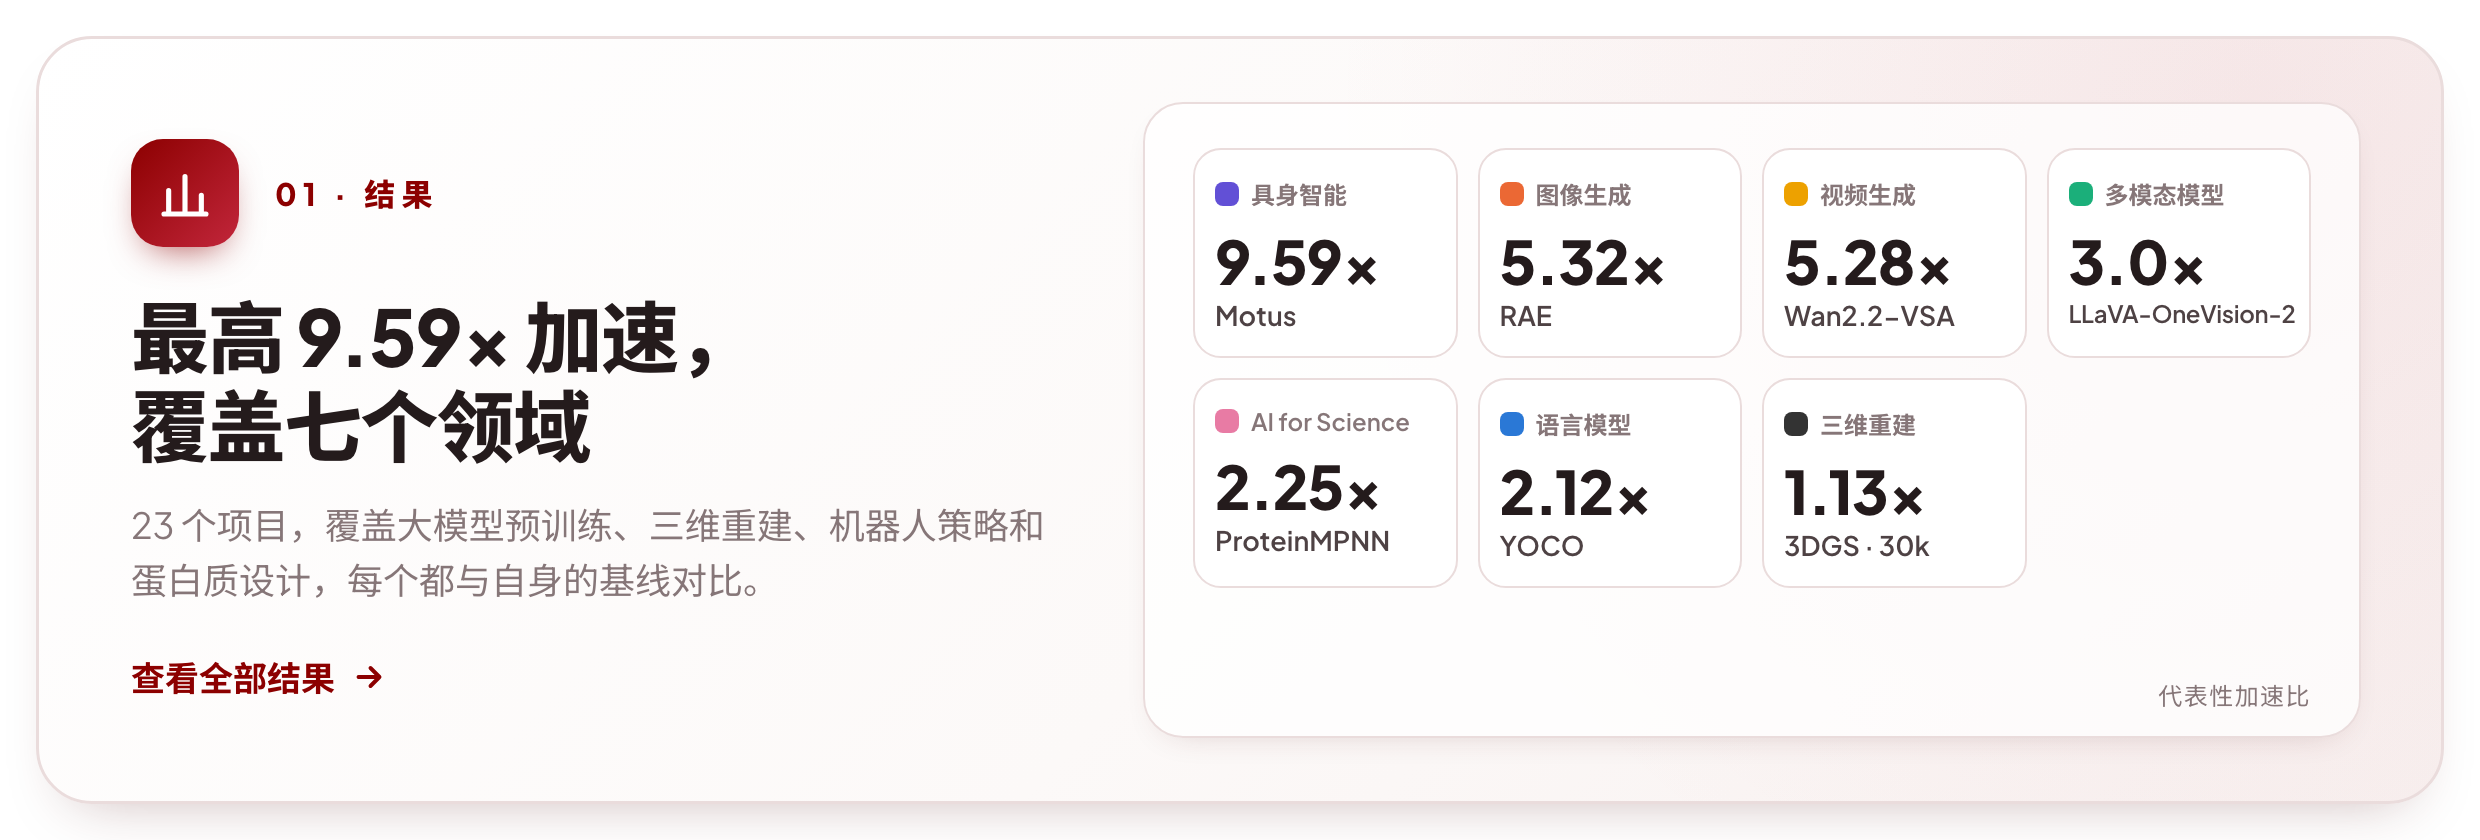
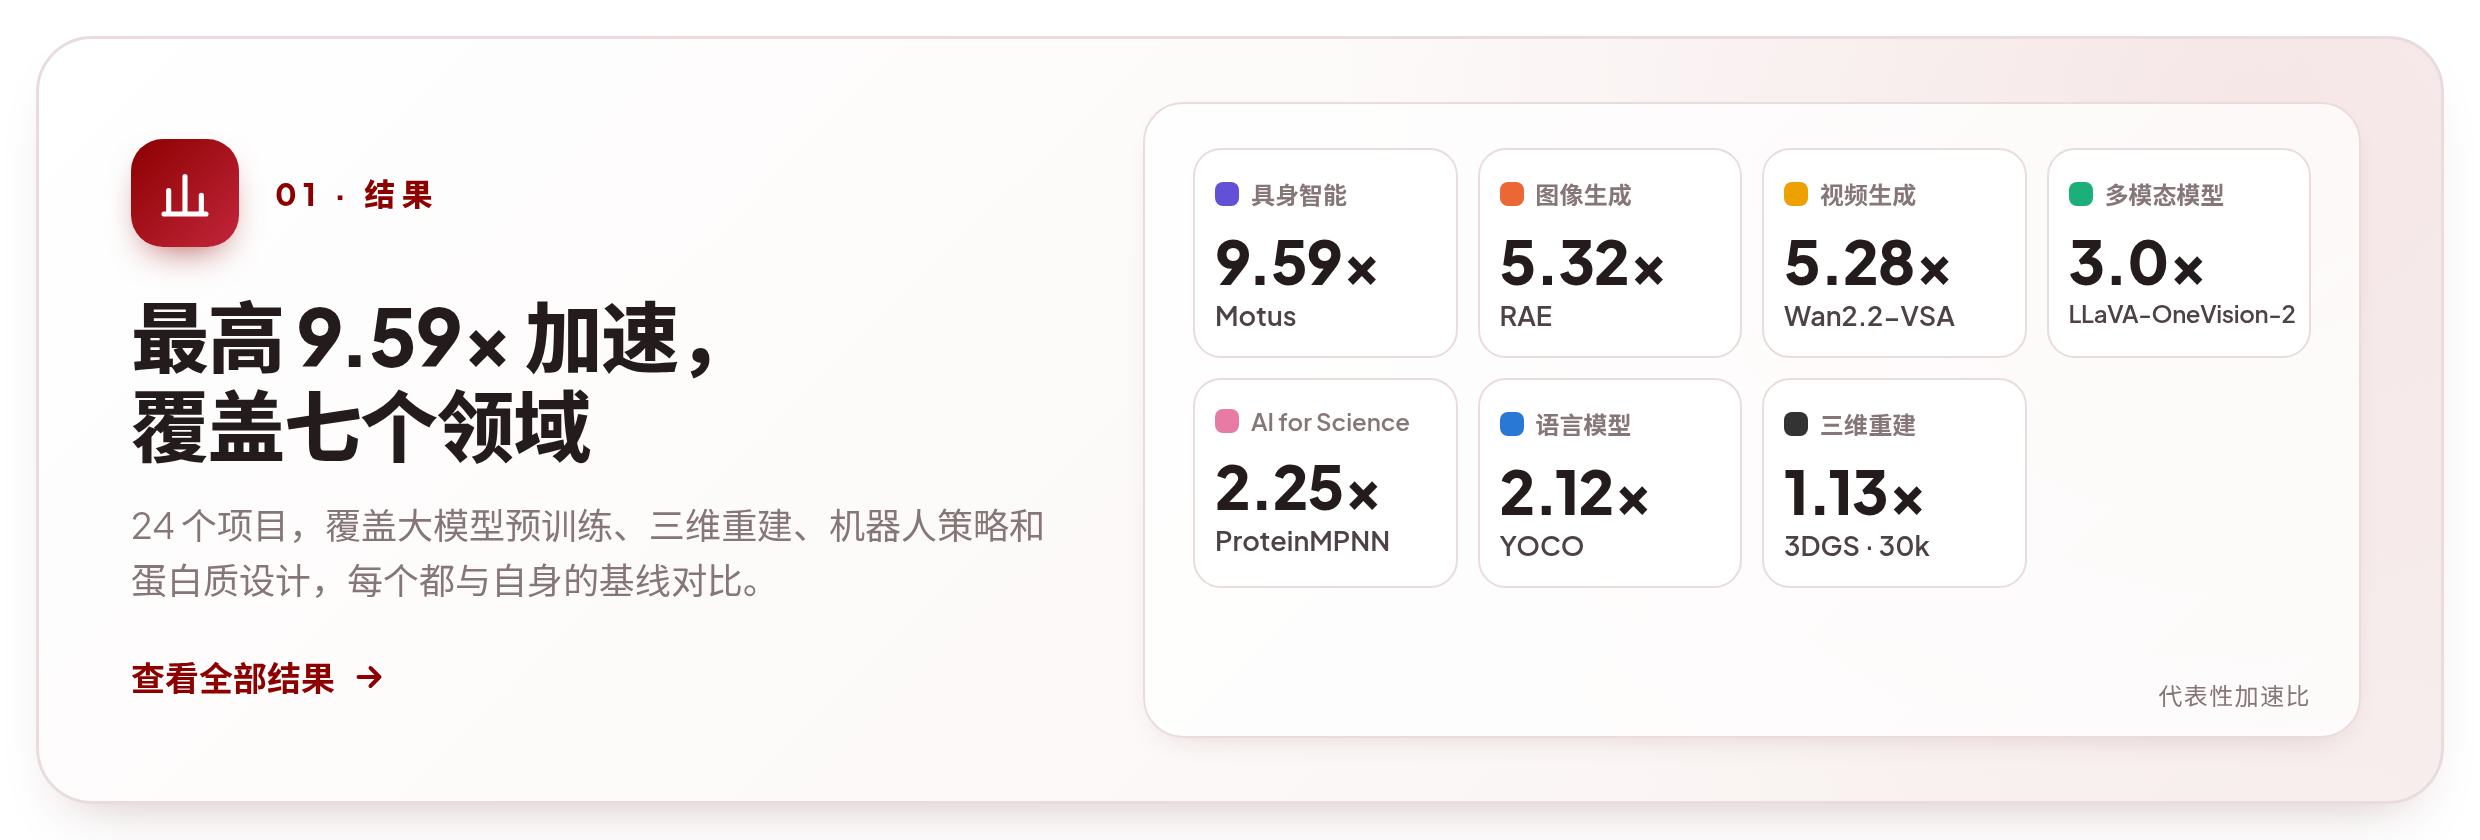
docs: add Faster-SuperMimic to results and leaderboard
Official SuperMimic (HybridRobotics/supermimic + mjlab_research) training, 1.38x
(0.0852 -> 0.0617 s/iteration), statistical judge PASS, 20k-iteration end-to-end training reproduced.

diff --git a/docs/assets/readme/render.py b/docs/assets/readme/render.py
@@ -58,7 +58,7 @@ T = {
                     ("bench-blog", "book", "Read the blog post", "light")],
         "cards": [
             ("results", "chart", "01 · RESULTS", "Up to 9.59× faster,<br>across seven domains",
-             "23 projects, from LLM pretraining to 3D reconstruction, robot policies and protein design, each measured against its own baseline.",
+             "24 projects, from LLM pretraining to 3D reconstruction, robot policies and protein design, each measured against its own baseline.",
              "See all results"),
             ("prompt", "terminal", "02 · ONE PROMPT", "Paste one prompt,<br>get a verified speedup",
              "Open Codex or Claude Code on a GPU host. The agent finds the code, asks only what is yours to decide, and does the rest.",
@@ -134,7 +134,7 @@ T = {
                     ("bench-blog", "book", "阅读博客", "light")],
         "cards": [
             ("results", "chart", "01 · 结果", "最高 9.59× 加速，<br>覆盖七个领域",
-             "23 个项目，覆盖大模型预训练、三维重建、机器人策略和蛋白质设计，每个都与自身的基线对比。",
+             "24 个项目，覆盖大模型预训练、三维重建、机器人策略和蛋白质设计，每个都与自身的基线对比。",
              "查看全部结果"),
             ("prompt", "terminal", "02 · 一段提示词", "粘贴一段话，<br>拿到验证过的加速",
              "在 GPU 主机上打开 Codex 或 Claude Code。agent 自己找到代码，只问需要你决定的事，其余全部自己完成。",

diff --git a/docs/figures/make_results_overview.py b/docs/figures/make_results_overview.py
@@ -44,13 +44,14 @@ PROJECTS = [
     ("LLM2Vec", "llm", 1.6009, "1.60×", False, "stat"),
     ("JiT", "img", 1.56, "1.56×", False, "stat"),
     ("Protenix", "sci", 1.5524, "1.55×", False, "manual"),
+    ("SuperMimic", "emb", 1.3821, "1.38×", False, "stat"),
     ("FermiNet", "sci", 1.252, "1.25×", False, "bitwise"),
     ("NanoChat", "llm", 1.20, "1.20×", False, "stat"),
     ("3DGS", "3d", 1.1314, "1.13×", False, "task"),
 ]
 
 # Projects contributed by the community; the leaderboard marks them with a people icon.
-COMMUNITY = {"NanoChat", "LLM2Vec", "MiniMax-H3", "Wan2.2-VSA", "SANA-WM", "OpenWAM", "LLaVA-OneVision-2", "ProteinMPNN", "Protenix", "FermiNet", "PIDG (module)", "3DGS"}
+COMMUNITY = {"NanoChat", "LLM2Vec", "MiniMax-H3", "Wan2.2-VSA", "SANA-WM", "OpenWAM", "LLaVA-OneVision-2", "ProteinMPNN", "Protenix", "FermiNet", "PIDG (module)", "3DGS", "SuperMimic"}
 
 # (name, domain, baseline, optimized, unit-formatted labels, speedup label, estimate?, en/zh scope, en/zh quality)
 SHOWCASE = [

diff --git a/README.md b/README.md
@@ -55,7 +55,7 @@
 
 ## Highlights
 
-<a href="#results"><img src="docs/assets/readme/card-results-en.png" alt="Up to 9.59× faster across seven research domains: 23 projects, each measured against its own baseline." width="100%"></a>
+<a href="#results"><img src="docs/assets/readme/card-results-en.png" alt="Up to 9.59× faster across seven research domains: 24 projects, each measured against its own baseline." width="100%"></a>
 
 <a href="#quick-start"><img src="docs/assets/readme/card-prompt-en.png" alt="Paste one prompt into Codex or Claude Code; the agent finds the code, asks only what is yours to decide, and does the rest." width="100%"></a>
 
@@ -65,7 +65,7 @@
 
 ## Results
 
-<a href="https://ai4ai-for-anything.github.io/#research"><img src="docs/figures/results-overview.svg" alt="All 23 projects ranked by speedup over their own baselines, from 9.59× (Motus) to 1.13× (3DGS), with how each was validated" width="100%"></a>
+<a href="https://ai4ai-for-anything.github.io/#research"><img src="docs/figures/results-overview.svg" alt="All 24 projects ranked by speedup over their own baselines, from 9.59× (Motus) to 1.13× (3DGS), with how each was validated" width="100%"></a>
 
 <img src="docs/figures/results-time.svg" alt="Baseline vs optimized time for six projects, such as Motus fine-tuning from 7.47 s to 0.78 s per iteration and the RoboTwin benchmark from 73.5 h to 16.8 h" width="100%">
 
@@ -126,7 +126,7 @@ Open a domain for the workloads, or the reports for experiment settings and vali
 </details>
 
 <details>
-<summary><strong>Embodied AI</strong> · 4 projects — RoboTwin, Motus, FastWAM, OpenWAM</summary>
+<summary><strong>Embodied AI</strong> · 5 projects — RoboTwin, Motus, FastWAM, OpenWAM, SuperMimic</summary>
 
 | Project | Workload | Speedup |
 |---|---|---:|
@@ -134,6 +134,7 @@ Open a domain for the workloads, or the reports for experiment settings and vali
 | [Faster-Motus](https://github.com/AI4AI-for-Anything/Faster-Motus) | RoboTwin 2.0 fine-tuning · 27,244 episodes | **9.59×** |
 | [Faster-FastWAM](https://github.com/AI4AI-for-Anything/Faster-FastWAM) | FastWAM-LIBERO training recipe | **3.46×** |
 | [OpenWAM](https://github.com/OpenWAM-Official/OpenWAM#training-acceleration) by [@GONGSHUKAI](https://github.com/GONGSHUKAI) | OpenWAM-α fine-tuning · seven SFT benchmarks · merged upstream | **2.54–2.77×** |
+| [Faster-SuperMimic](https://github.com/hwbhwbhwb/Faster-SuperMimic) by [@hwbhwbhwb](https://github.com/hwbhwbhwb) | SuperMimic world-model + BPTT training · 40 LAFAN1 clips | **1.38×** |
 
 [Measurement setup & validation →](docs/results/embodied-ai.md)
 
@@ -246,7 +247,7 @@ The quick start does this for you. By hand: read [AGENTS.md](AGENTS.md) and [doc
 
 | Path | Contents |
 |---|---|
-| [`docs/results/`](docs/results) | Results from 23 projects, grouped by domain, with measurement scope and validation records |
+| [`docs/results/`](docs/results) | Results from 24 projects, grouped by domain, with measurement scope and validation records |
 | [`docs/`](docs) | [Methodology](docs/methodology.md), [the judge](docs/judge.md), [goal mode](docs/goal-mode.md), [running a task](docs/run-a-task.md), [lessons from four tasks](docs/lessons.md) |
 | [`goal/`](goal) | Running one Codex or Claude Code `/goal` session on claw-orchestrator: the task scaffold, the sandbox, model access for both engines, run / status / steer / resume scripts and the final check, the watchdog, the brief for the formulating and supervising agent |
 | [`numerics/`](numerics) | The equivalence component every task judge copies and freezes: recording, bitwise and tiered comparison, paired-seed trajectories, the task adapter base class, a self-test |

diff --git a/README.zh-CN.md b/README.zh-CN.md
@@ -55,7 +55,7 @@
 
 ## 亮点
 
-<a href="#已有结果"><img src="docs/assets/readme/card-results-zh.png" alt="最高 9.59× 加速，覆盖七个研究领域：23 个项目，每个都与自身的基线对比。" width="100%"></a>
+<a href="#已有结果"><img src="docs/assets/readme/card-results-zh.png" alt="最高 9.59× 加速，覆盖七个研究领域：24 个项目，每个都与自身的基线对比。" width="100%"></a>
 
 <a href="#快速开始"><img src="docs/assets/readme/card-prompt-zh.png" alt="在 Codex 或 Claude Code 里粘贴一段话；agent 自己找到代码，只问需要你决定的事，其余全部自己完成。" width="100%"></a>
 
@@ -65,7 +65,7 @@
 
 ## 已有结果
 
-<a href="https://ai4ai-for-anything.github.io/#research"><img src="docs/figures/results-overview.zh-CN.svg" alt="23 个项目按相对自身基线的加速比排名，从 9.59×（Motus）到 1.13×（3DGS），附验证方式" width="100%"></a>
+<a href="https://ai4ai-for-anything.github.io/#research"><img src="docs/figures/results-overview.zh-CN.svg" alt="24 个项目按相对自身基线的加速比排名，从 9.59×（Motus）到 1.13×（3DGS），附验证方式" width="100%"></a>
 
 <img src="docs/figures/results-time.zh-CN.svg" alt="6 个项目的基线与优化后耗时对比，例如 Motus 微调每次迭代从 7.47 s 降到 0.78 s，RoboTwin 完整评测从 73.5 h 降到 16.8 h" width="100%">
 
@@ -126,7 +126,7 @@
 </details>
 
 <details>
-<summary><strong>具身智能</strong> · 4 个项目 — RoboTwin, Motus, FastWAM, OpenWAM</summary>
+<summary><strong>具身智能</strong> · 5 个项目 — RoboTwin, Motus, FastWAM, OpenWAM, SuperMimic</summary>
 
 | 项目 | 工作负载 | 加速比 |
 |---|---|---:|
@@ -134,6 +134,7 @@
 | [Faster-Motus](https://github.com/AI4AI-for-Anything/Faster-Motus) | RoboTwin 2.0 微调 | **9.59×** |
 | [Faster-FastWAM](https://github.com/AI4AI-for-Anything/Faster-FastWAM) | FastWAM-LIBERO 训练 | **3.46×** |
 | [OpenWAM](https://github.com/OpenWAM-Official/OpenWAM#training-acceleration)（[@GONGSHUKAI](https://github.com/GONGSHUKAI) 贡献） | OpenWAM-α 微调 · 7 个 SFT 基准 · 已合入上游 | **2.54–2.77×** |
+| [Faster-SuperMimic](https://github.com/hwbhwbhwb/Faster-SuperMimic)（[@hwbhwbhwb](https://github.com/hwbhwbhwb) 贡献） | SuperMimic 世界模型 + BPTT 训练 · 40 段 LAFAN1 | **1.38×** |
 
 [实验设置与验证记录（英文） →](docs/results/embodied-ai.md)
 
@@ -246,7 +247,7 @@ Codex 用 `codex --enable default_mode_request_user_input` 启动时会弹出提
 
 | 路径 | 内容 |
 |---|---|
-| [`docs/results/`](docs/results) | 23 个项目的分类报告、测量范围与验证记录（英文） |
+| [`docs/results/`](docs/results) | 24 个项目的分类报告、测量范围与验证记录（英文） |
 | [`docs/`](docs) | 英文文档：[方法](docs/methodology.md)、[评测](docs/judge.md)、[goal 模式](docs/goal-mode.md)、[任务运行指南](docs/run-a-task.md)、[四个任务的经验](docs/lessons.md) |
 | [`goal/`](goal) | 在 claw-orchestrator 上运行 Codex 或 Claude Code `/goal` 会话的工具：建任务目录的脚本、沙箱、两种引擎的模型访问配置、启动 / 查看状态 / 发送提醒 / 恢复运行的脚本和最终评测、监控脚本，以及任务准备和监督 agent 的说明 |
 | [`numerics/`](numerics) | 各任务评测复制并固定版本的数值等价性检查组件：数据记录、逐位和分级比对、配对随机种子的训练轨迹比对、任务适配器基类及自测 |

diff --git a/docs/results/embodied-ai.md b/docs/results/embodied-ai.md
@@ -2,7 +2,7 @@
 
 [← All results](README.md) · [ResearchBoost-Agent](../../README.md#results)
 
-4 projects · [RoboTwin](#faster-robotwin) · [Motus](#faster-motus) · [FastWAM](#faster-fastwam) · [OpenWAM](#openwam)
+5 projects · [RoboTwin](#faster-robotwin) · [Motus](#faster-motus) · [FastWAM](#faster-fastwam) · [OpenWAM](#openwam) · [SuperMimic](#faster-supermimic)
 
 ## Faster-RoboTwin
 
@@ -63,3 +63,18 @@ LIBERO overall success: 96.90% for Faster-FastWAM and 97.15% for the released ch
 The original `main` recomputed every layer (all-layer gradient checkpointing); the measured configuration used no checkpointing and no 80 GiB memory cap, so the speedups include the recomputation it avoids. Each change was kept only if training stayed bitwise identical to `main` or within its seed-to-seed variation. LIBERO success after a full Sim-LIBERO fine-tuning run with the speed preset: 99.05%, against 99.2% for the released OpenWAM-Alpha-Sim-LIBERO checkpoint under the same evaluation. OpenWAM now loads the speed preset by default and keeps all-layer checkpointing on by default.
 
 [Code & project README ↗](https://github.com/OpenWAM-Official/OpenWAM#training-acceleration) · [Pull request & review ↗](https://github.com/OpenWAM-Official/OpenWAM/pull/58)
+
+## Faster-SuperMimic
+
+**SuperMimic world-model + BPTT training · 40 LAFAN1 clips** · by [@hwbhwbhwb](https://github.com/hwbhwbhwb)
+
+| Item | Result |
+|---|---|
+| Speedup | **1.38×** |
+| Hardware | 1 × GPU |
+| Measurement scope | 0.0852 → 0.0617 s/iteration, steady state (reference → candidate → reference) |
+| Validation | Statistical judge PASS · 20k-iteration training reproduced |
+
+The official [SuperMimic](https://github.com/HybridRobotics/supermimic) with [mjlab_research](https://github.com/HybridRobotics/mjlab_research), task `SuperMimic-GenCoord-G1` on 4096 MuJoCo Warp envs, code defaults. Nine commits remove host syncs in the env step, replay sampling and normalizers, compile and horizontally fuse small kernels, skip unread observation groups and align a TF32 GEMM; precision, simulator and random-draw order are unchanged. The reference itself is not bitwise reproducible across processes, so the judge compares 20 training endpoints of an 800-iteration run against six reference seeds (largest deviation 1.53σ). Trained for 20,000 iterations with two seeds per arm and evaluated with the original code on all 40 clips, the benchmark return is 0.860 for the original and 0.862 for the optimized code.
+
+[Code & project README ↗](https://github.com/hwbhwbhwb/Faster-SuperMimic) · [Detailed evidence ↗](https://github.com/hwbhwbhwb/Faster-SuperMimic/blob/main/docs/measurement.md)

diff --git a/docs/results/README.md b/docs/results/README.md
@@ -2,7 +2,7 @@
 
 [← ResearchBoost-Agent](../../README.md#results)
 
-**23 projects · 7 research domains**
+**24 projects · 7 research domains**
 
 Each report includes the workload, hardware, timing and validation results, with links to the project’s code and experiments.
 
@@ -12,7 +12,7 @@ Each report includes the workload, hardware, timing and validation results, with
 | MLLM | LLaVA, BAGEL, R3, [LLaVA-OneVision-2](https://github.com/EvolvingLMMs-Lab/LLaVA-OneVision-2) by [@GONGSHUKAI](https://github.com/GONGSHUKAI) | [Open report](multimodal.md) |
 | Image Generation | RAE, DMD2, JiT | [Open report](image-generation.md) |
 | Video Generation | [Wan2.2-VSA](https://github.com/JoeyXuquant11/Faster-Wan22-VSA-MUSA) by [@JoeyXuquant11](https://github.com/JoeyXuquant11), [SANA-WM](https://github.com/JoeyXuquant11/Faster-SANA-WM-MUSA) by [@JoeyXuquant11](https://github.com/JoeyXuquant11), Self-Forcing, [MiniMax-H3](https://github.com/2018cx/Faster-MiniMax-H3) by [@2018cx](https://github.com/2018cx) | [Open report](video-generation.md) |
-| Embodied AI | RoboTwin, Motus, FastWAM, [OpenWAM](https://github.com/OpenWAM-Official/OpenWAM) by [@GONGSHUKAI](https://github.com/GONGSHUKAI) | [Open report](embodied-ai.md) |
+| Embodied AI | RoboTwin, Motus, FastWAM, [OpenWAM](https://github.com/OpenWAM-Official/OpenWAM) by [@GONGSHUKAI](https://github.com/GONGSHUKAI), [SuperMimic](https://github.com/hwbhwbhwb/Faster-SuperMimic) by [@hwbhwbhwb](https://github.com/hwbhwbhwb) | [Open report](embodied-ai.md) |
 | AI for Science | [ProteinMPNN](https://github.com/micky-li-hd/Faster-ProteinMPNN) by [@micky-li-hd](https://github.com/micky-li-hd), [Protenix](https://github.com/micky-li-hd/Faster-Protenix) by [@micky-li-hd](https://github.com/micky-li-hd), [FermiNet](https://github.com/sen-ye/faster-ferminet) by [@sen-ye](https://github.com/sen-ye) | [Open report](ai4s.md) |
 | 3D Reconstruction | [Original 3DGS](https://github.com/HaoqinHong/Physics-Informed-Deformable-Gaussian-Splatting-ResearchBoost) by [@HaoqinHong](https://github.com/HaoqinHong), [PIDG](https://github.com/HaoqinHong/Physics-Informed-Deformable-Gaussian-Splatting-ResearchBoost) by [@HaoqinHong](https://github.com/HaoqinHong) | [Open report](3d-reconstruction.md) |
 
